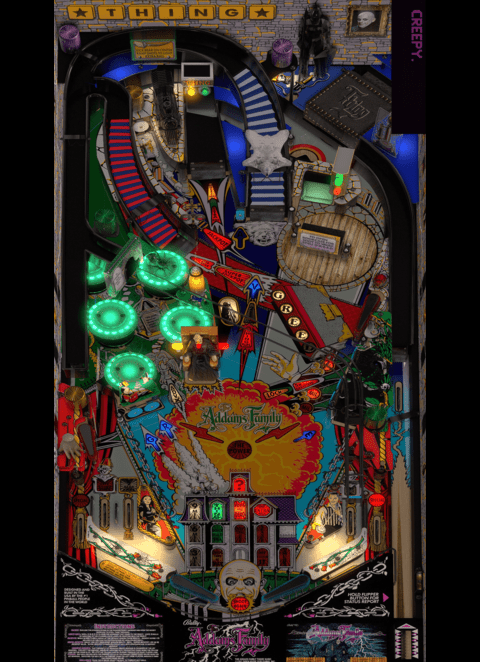
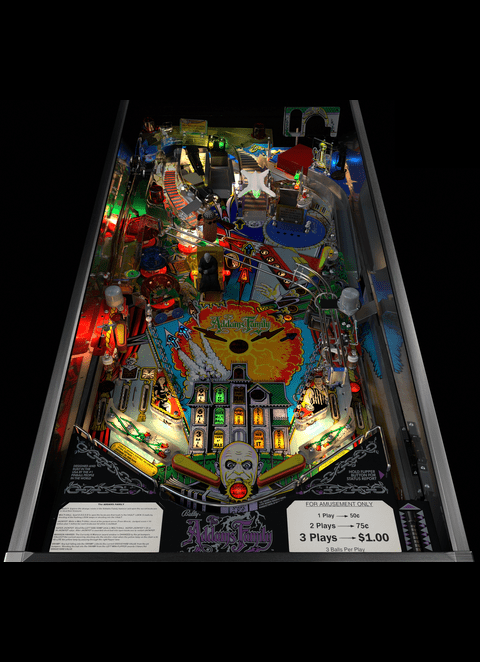
TAF update

diff --git a/external/vpx-taf/README.md b/external/vpx-taf/README.md
@@ -1,10 +1,10 @@
 # Addams Family, The (Bally 1992)
 
-![Table Preview](https://i.imgur.com/p9smBME.png)
+![Table Preview](https://vpuniverse.com/screenshots/monthly_2024_06/addamsdesktop_2441.png.e9c41c4b9277a88ed69730e3f8a64e03.png)
 
-Authors: [3rdaxis](https://www.vpforums.org/index.php?s=4cdd23adf9b1cb8f10b8a3c848ce0ae0&showuser=91493)  
-Version: 2.3
-Download: [VP Forums](https://www.vpforums.org/index.php?app=downloads&showfile=15693)
+Authors: [g5k](https://vpuniverse.com/profile/14065-g5k/)  
+Version: 2.4.41
+Download: [VP Universe](https://vpuniverse.com/files/file/20654-the-addams-family-bally-1992-2441vpx/)
 
 DirectB2S
 
@@ -21,7 +21,7 @@ Download: [VP Forums](https://www.vpforums.org/index.php?app=downloads&showfile=
 Minimum VPX Standalone build: 10.8.0-1989-a764013
 | Playfield | Controls | Backglass | DMD | ROM Required | FPS | 
 |-----------|----------|-----------|-----|--------------|-----|
-| :white_check_mark: | :white_check_mark: | :white_check_mark: | :white_check_mark: | :white_check_mark: | 35 |
+| :white_check_mark: | :white_check_mark: | :white_check_mark: | :white_check_mark: | :white_check_mark: | 29 |
 
 ## Instructions
 
